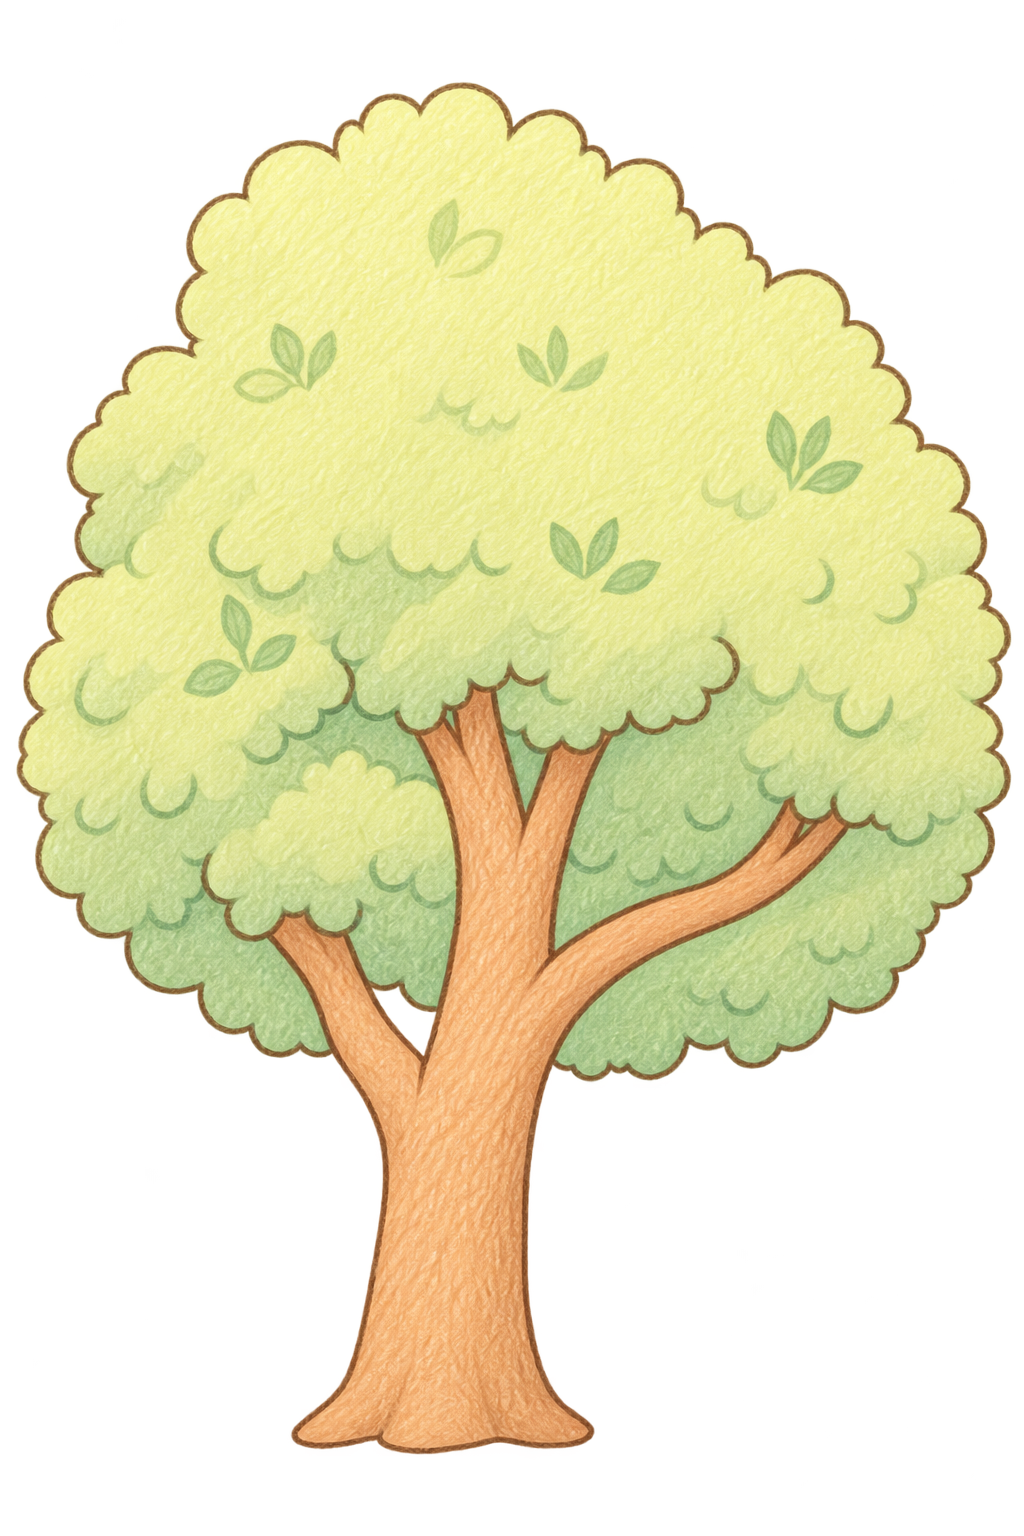
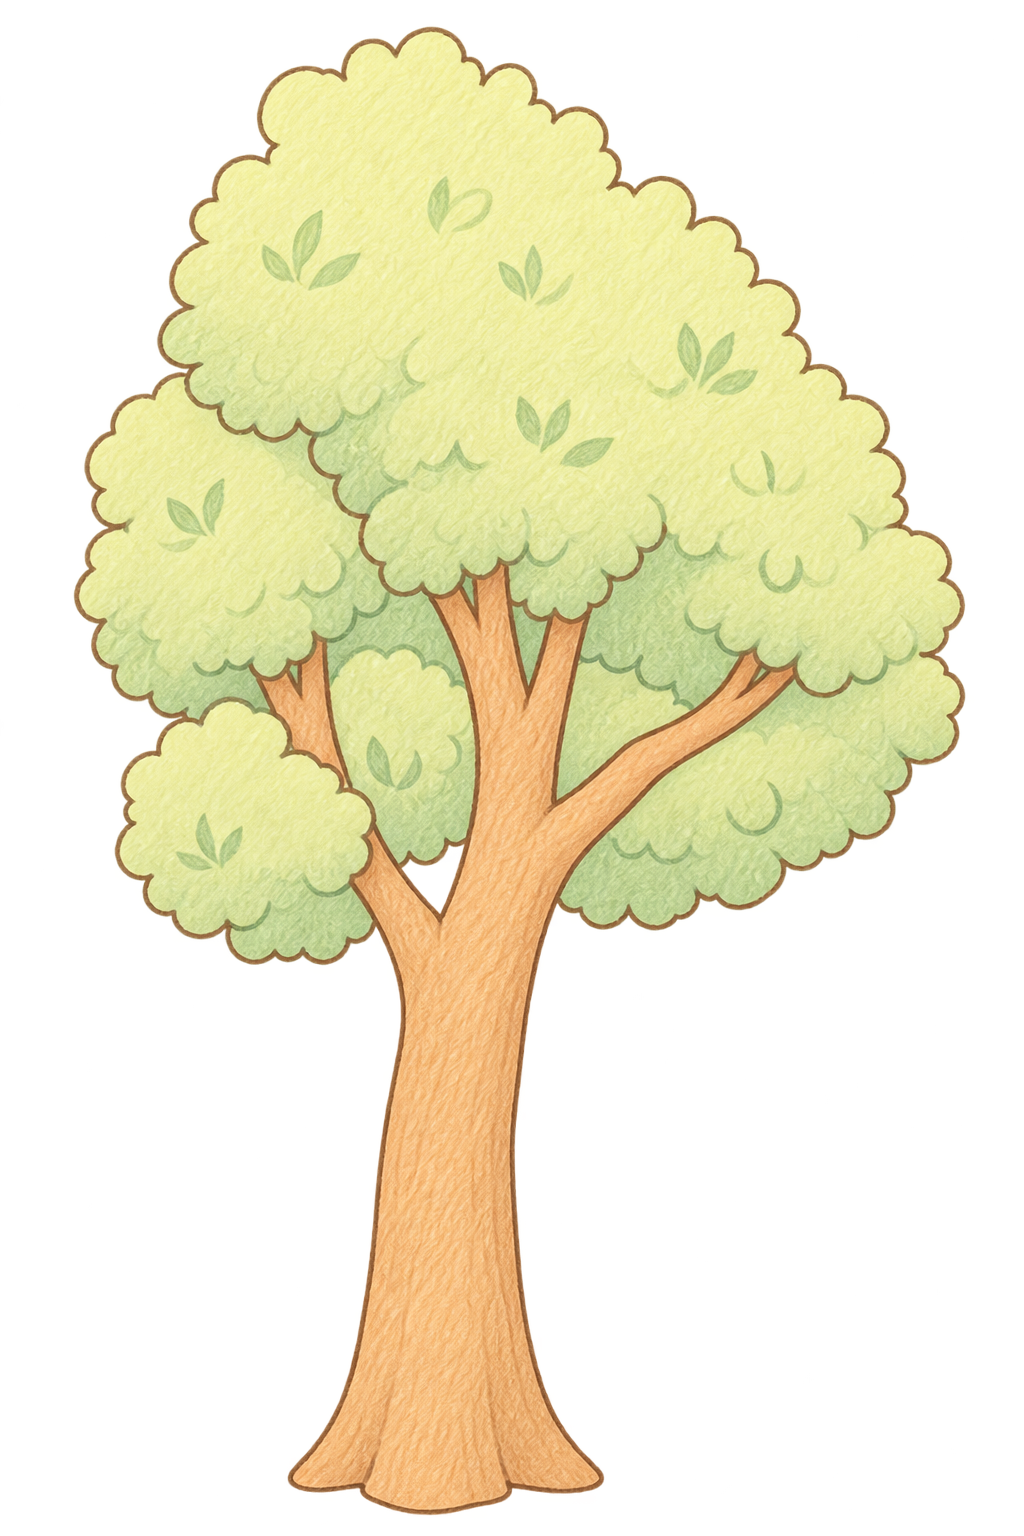
L6: vẽ lại cây (cao, đẹp như demo 3) và Lu gặm xương; đủ 31 món

Changed region(s): [[0.0, 0.0, 1.0, 1.0]]

diff --git a/art/design-art-level6.md b/art/design-art-level6.md
@@ -94,7 +94,7 @@ Mỗi món một ảnh `art/out/_sheets/l6src_<key>.png` (Codex tách, brief `ar
 | l6src_l6_glove_black_fallen | 0,0,1254,1254 | l6_glove_black_fallen | level6 | glove | đáy | rộng 124 | 5 |
 | l6src_l6_bone | 0,0,1536,1024 | l6_bone | level6 |  | tâm | rộng 80 | 5 |
 | l6src_l6_sausage | 0,0,1536,1024 | l6_sausage | level6 |  | tâm | rộng 90 | 5 |
-| l6src_l6_dog_chew | 0,0,1024,1024 | l6_dog_chew | level6 |  | đáy | rộng 210 | 5 |
+| l6src_l6_dog_chew | 0,0,1254,1254 | l6_dog_chew | level6 |  | đáy | rộng 210 | 5 |
 | l6src_mun_roof_crouch_ears_up | 0,0,1536,1024 | mun_roof_crouch_ears_up | cats | mun_roof | đáy | rộng 245 | 2.5 |
 | l6src_mun_roof_crouch | 0,0,1536,1024 | mun_roof_crouch | cats | mun_roof | đáy | rộng 241 | 2.5 |
 | l6src_l6_dog_bark | 0,0,1254,1254 | l6_dog_bark | level6 |  | đáy | rộng 240 | 2.5 |
